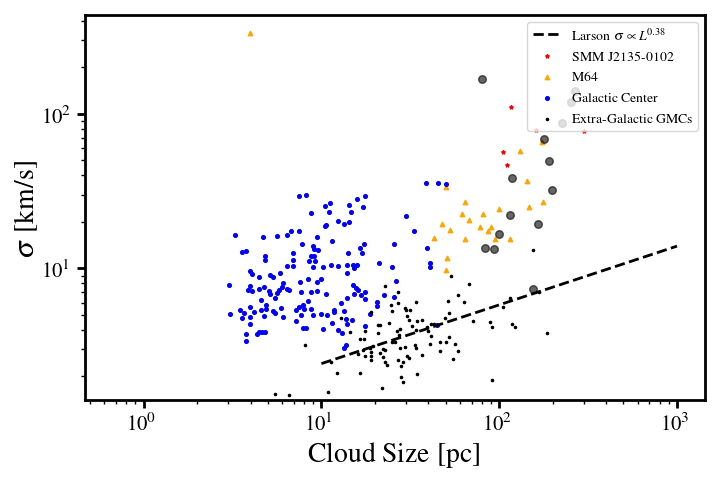
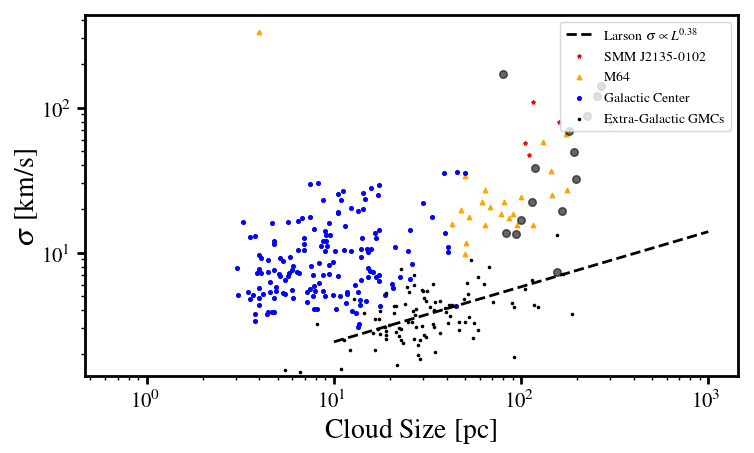
cosmetics

diff --git a/snapshot28_leafplot.py b/snapshot28_leafplot.py
@@ -18,7 +18,7 @@ TODO
 import matplotlib
 matplotlib.rcParams.update({'figure.figsize': (8, 5)    # inches
                             , 'font.size': 22      # points
-                            , 'legend.fontsize': 16      # points
+                            , 'legend.fontsize': 14      # points
                             , 'lines.linewidth': 2       # points
                             , 'axes.linewidth': 2       # points
                             , 'text.usetex': True    # Use LaTeX to layout text
@@ -101,20 +101,27 @@ ax.set_yscale("log")
 ax.set_xlabel("Cloud Mass [M$_{\odot}$]")
 ax.set_ylabel(r"$\alpha_{\rm vir}$")
 
+plt.tight_layout()
 plt.show()
-plt.savefig(leafdir + "alphaVir_CloudMass.png", bbox_inches="tight")
+fig.savefig(leafdir + "alphaVir_CloudMass.png", bbox_inches="tight")
 
 fig = plt.figure()
 ax = fig.add_subplot(111)
 
+_x = []
+_y = []
+_y2 = []
+
 for kkk in leaf_fields.iterkeys():
-    ax.scatter(Cloud_dict[kkk].mass_Msun,
-                np.array(Cloud_dict[kkk].SFR) / 1.0e6,
-                s=80,
-                alpha=0.7, c='r', marker="*")
-    ax.scatter(Cloud_dict[kkk].mass_Msun,
-                np.array(Cloud_dict[kkk].SFR_JML) / 1.0e6,
-                s=80, alpha=0.7, c='g', marker="*")
+    _x.appen(Cloud_dict[kkk].mass_Msun)
+    _y.append(np.array(Cloud_dict[kkk].SFR) / 1.0e6)
+    _y2.append(np.array(Cloud_dict[kkk].SFR_JML) / 1.0e6)
+
+ax.plot(_x, _y, markersize=8, ls='',
+               alpha=0.7, c='r', marker="*", label="SFR KMM06")
+
+ax.plot(_x, _y2, ls='',
+               markersize=8, alpha=0.7, c='g', marker="*", label="SFR JML06")
 
 ax.set_xscale("log")
 ax.set_yscale("log")
@@ -122,13 +129,11 @@ ax.set_yscale("log")
 ax.set_xlabel(r"Cloud Mass [M$_{\odot}$]")
 ax.set_ylabel(r"Star Formation Rate [M$_{\odot}$ yr$^{-1}$]")
 
-labels = ("SFR KMM06", "SFR JML06")
-markers = ("r*", "g*")
-ax.legend(markers, labels, loc=2)
+ax.legend(loc=2)
 
 # ax.set_xlim(1.0e3, 1.0e7)
 # ax.set_ylim(1.0e-5, 1.0e1)
-
+plt.tight_layout()
 plt.show()
 fig.savefig(leafdir + "SFR_CloudMass.png", bbox_inches="tight")
 
@@ -173,29 +178,33 @@ x, y = [10**0.50, 10**4.0], [10**(-2.85), 10**2.1]
 
 pc2kpc = 1.e-3
 
+
 ax.plot(x, y, '-b', linewidth=2, label="Kennicutt")
 ax.plot(Heinerman_SigmaGas, Heinerman_SigmaSFR, 'bo',
         linewidth=2, alpha=0.7, label="MW Heiderman+2010")
 
+_x = []
+_y = []
 for kkk in leaf_fields.iterkeys():
 
-    ax.scatter(np.array(Cloud_dict[kkk].massSD),
-               np.array(Cloud_dict[kkk].SFR) / 1.0e6 /
-               (np.pi * Cloud_dict[kkk].R_pc * pc2kpc)**2,
-               s=80, alpha=0.7, c='r', marker='*')
+    _x.append(Cloud_dict[kkk].massSD)
+    _y.append((Cloud_dict[kkk].SFR) / 1.0e6 /
+              (np.pi * Cloud_dict[kkk].R_pc * pc2kpc)**2)
+
+ax.plot(_x, _y, ls='',
+        markersize=8, alpha=0.7, c='r', marker='*', label='This work')
 
 
 ax.set_xscale("log")
 ax.set_yscale("log")
 
-ax.set_xlabel(r"$\Sigma_{\rm gas}$ [M$_{\odot}$ pc$^2$]", fontsize=20)
+ax.set_xlabel(r"$\Sigma_{\rm gas}$ [M$_{\odot}$ pc$^{-2}$]", fontsize=20)
 ax.set_ylabel(
     r"$\Sigma_{\rm SFR}$ [M$_{\odot}$ yr$^{-1}$ kpc$^2$]", fontsize=20)
 
-label = ("This Work")
-marker = ('r*')
-ax.legend(marker, label, loc=4)
+ax.legend(loc="best")
 # ax.set_xlim(5.0e0, 1.0e3)
+plt.tight_layout()
 plt.show()
 fig.savefig(leafdir + 'SurfSFR_SurfGas.png', bbox_inches="tight")
 
@@ -214,8 +223,10 @@ ax.plot(x, y, '--k', linewidth=2, label='Larson $\sigma \propto L^{0.38}$')
 
 # Add Swinbank+11
 litpath = 'literature/'
-xegc, yegc = np.loadtxt(litpath + 'ExtraGalacticGMCs.csv', delimiter=',', unpack=True)
-xgc, ygc = np.loadtxt(litpath + 'GalacticCenter.csv', delimiter=',', unpack=True)
+xegc, yegc = np.loadtxt(litpath + 'ExtraGalacticGMCs.csv',
+                        delimiter=',', unpack=True)
+xgc, ygc = np.loadtxt(litpath + 'GalacticCenter.csv',
+                      delimiter=',', unpack=True)
 x64, y64 = np.loadtxt(litpath + 'M64.csv', delimiter=',', unpack=True)
 xmark, ymark, ymark_err = np.loadtxt(litpath + 'SMMJ2135.txt', unpack=True)
 
@@ -241,10 +252,9 @@ plt.yticks(fontsize=15)
 
 ax.legend(loc=1, fontsize=10)
 # ax.set_xlim(1.0e1, 1.0e3)
-
+plt.tight_layout()
 plt.show()
 fig.savefig(leafdir + 'LarsonsLike_plot.png', bbox_inches="tight")
-
 
 
 # sigma_v - gas mass SD plot
@@ -268,11 +278,9 @@ plt.xticks(fontsize=15)
 plt.yticks(fontsize=15)
 
 ax.legend(loc=1, fontsize=20)
-
+plt.tight_layout()
 plt.show()
 fig.savefig(leafdir + 'veldisp_gasSD.png', bbox_inches="tight")
-
-
 
 
 # -----------
